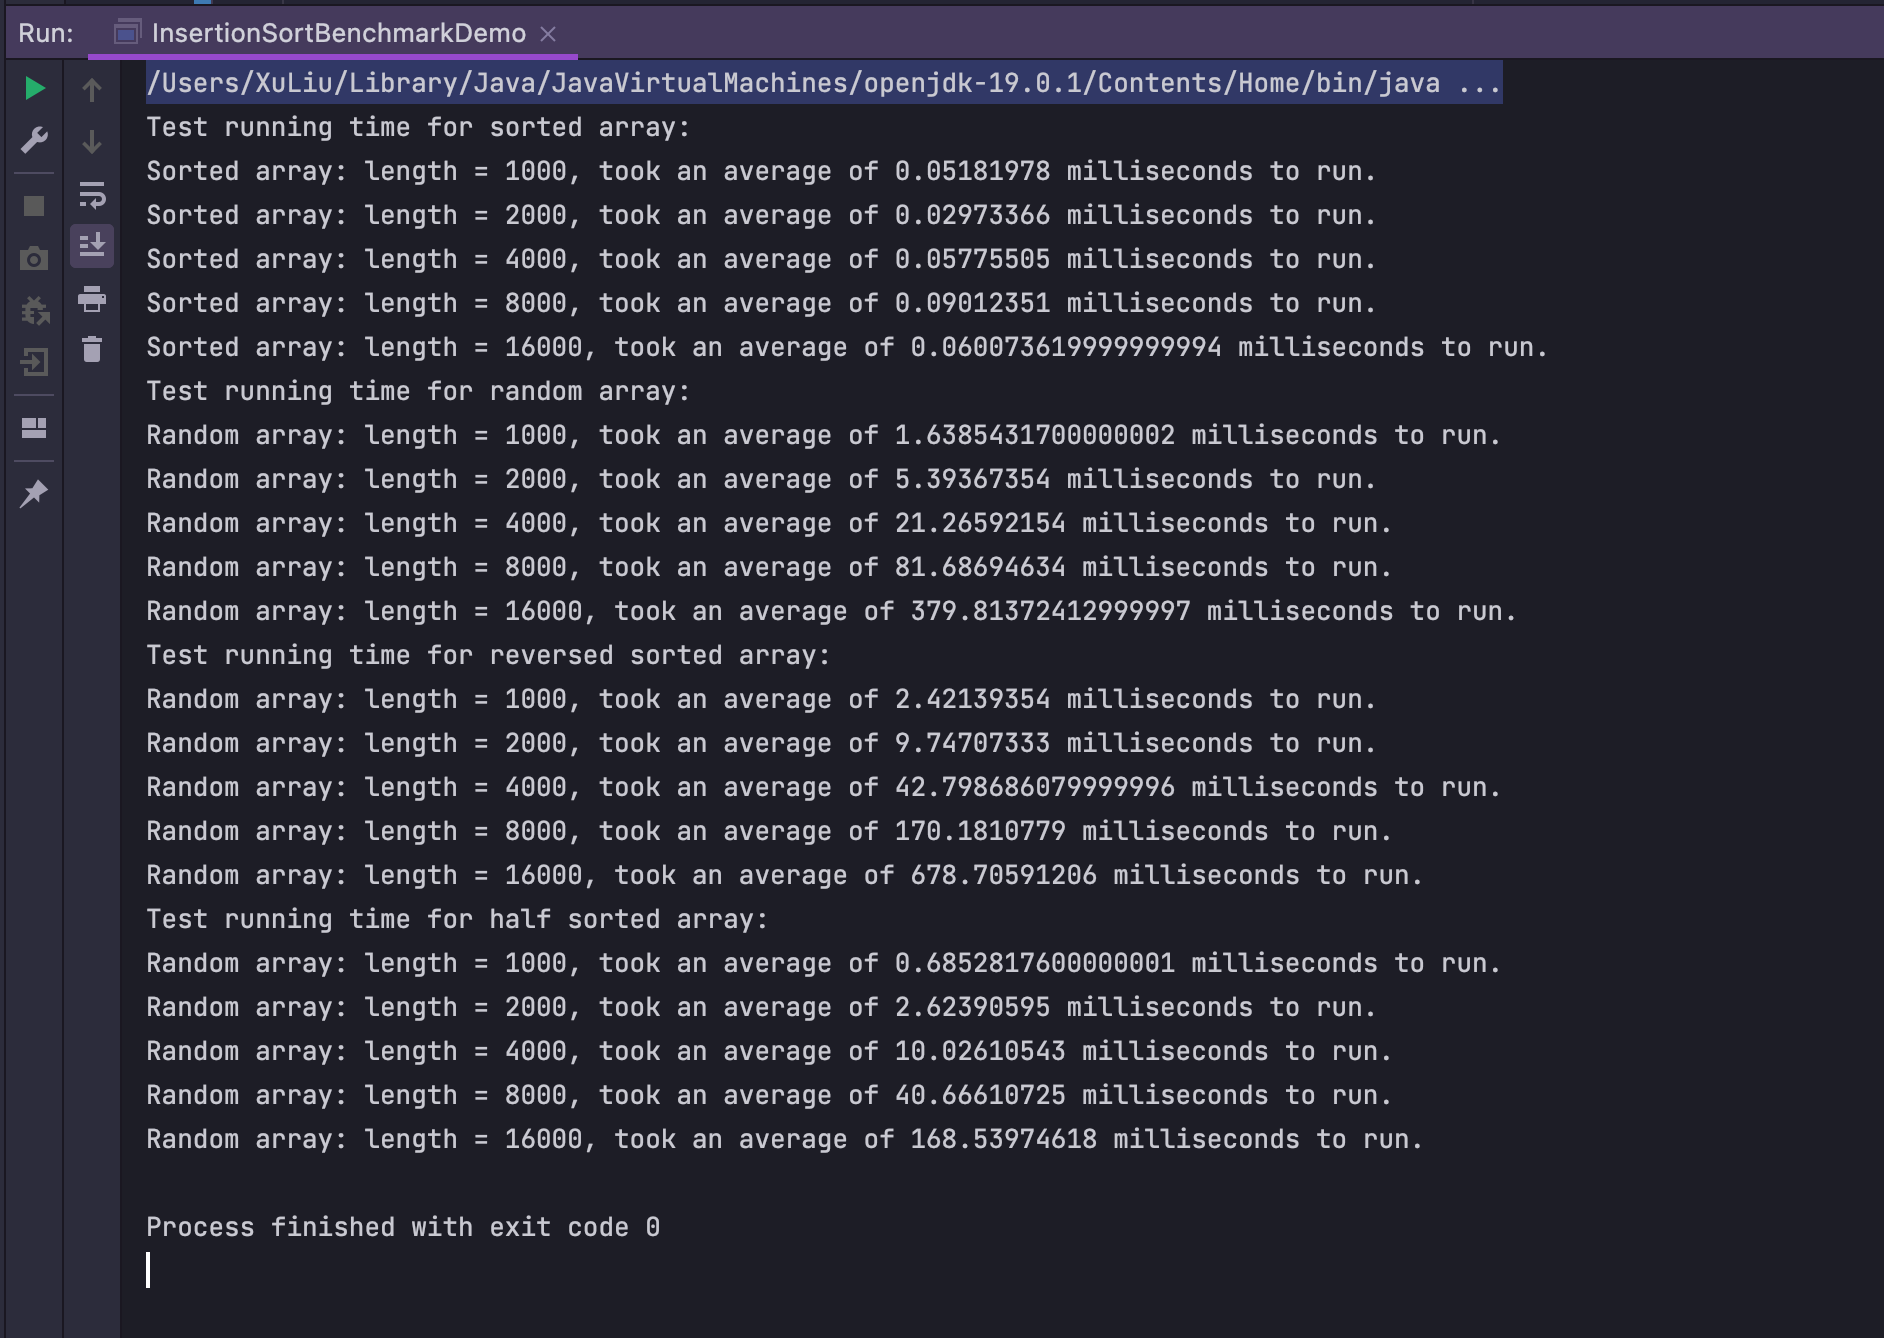
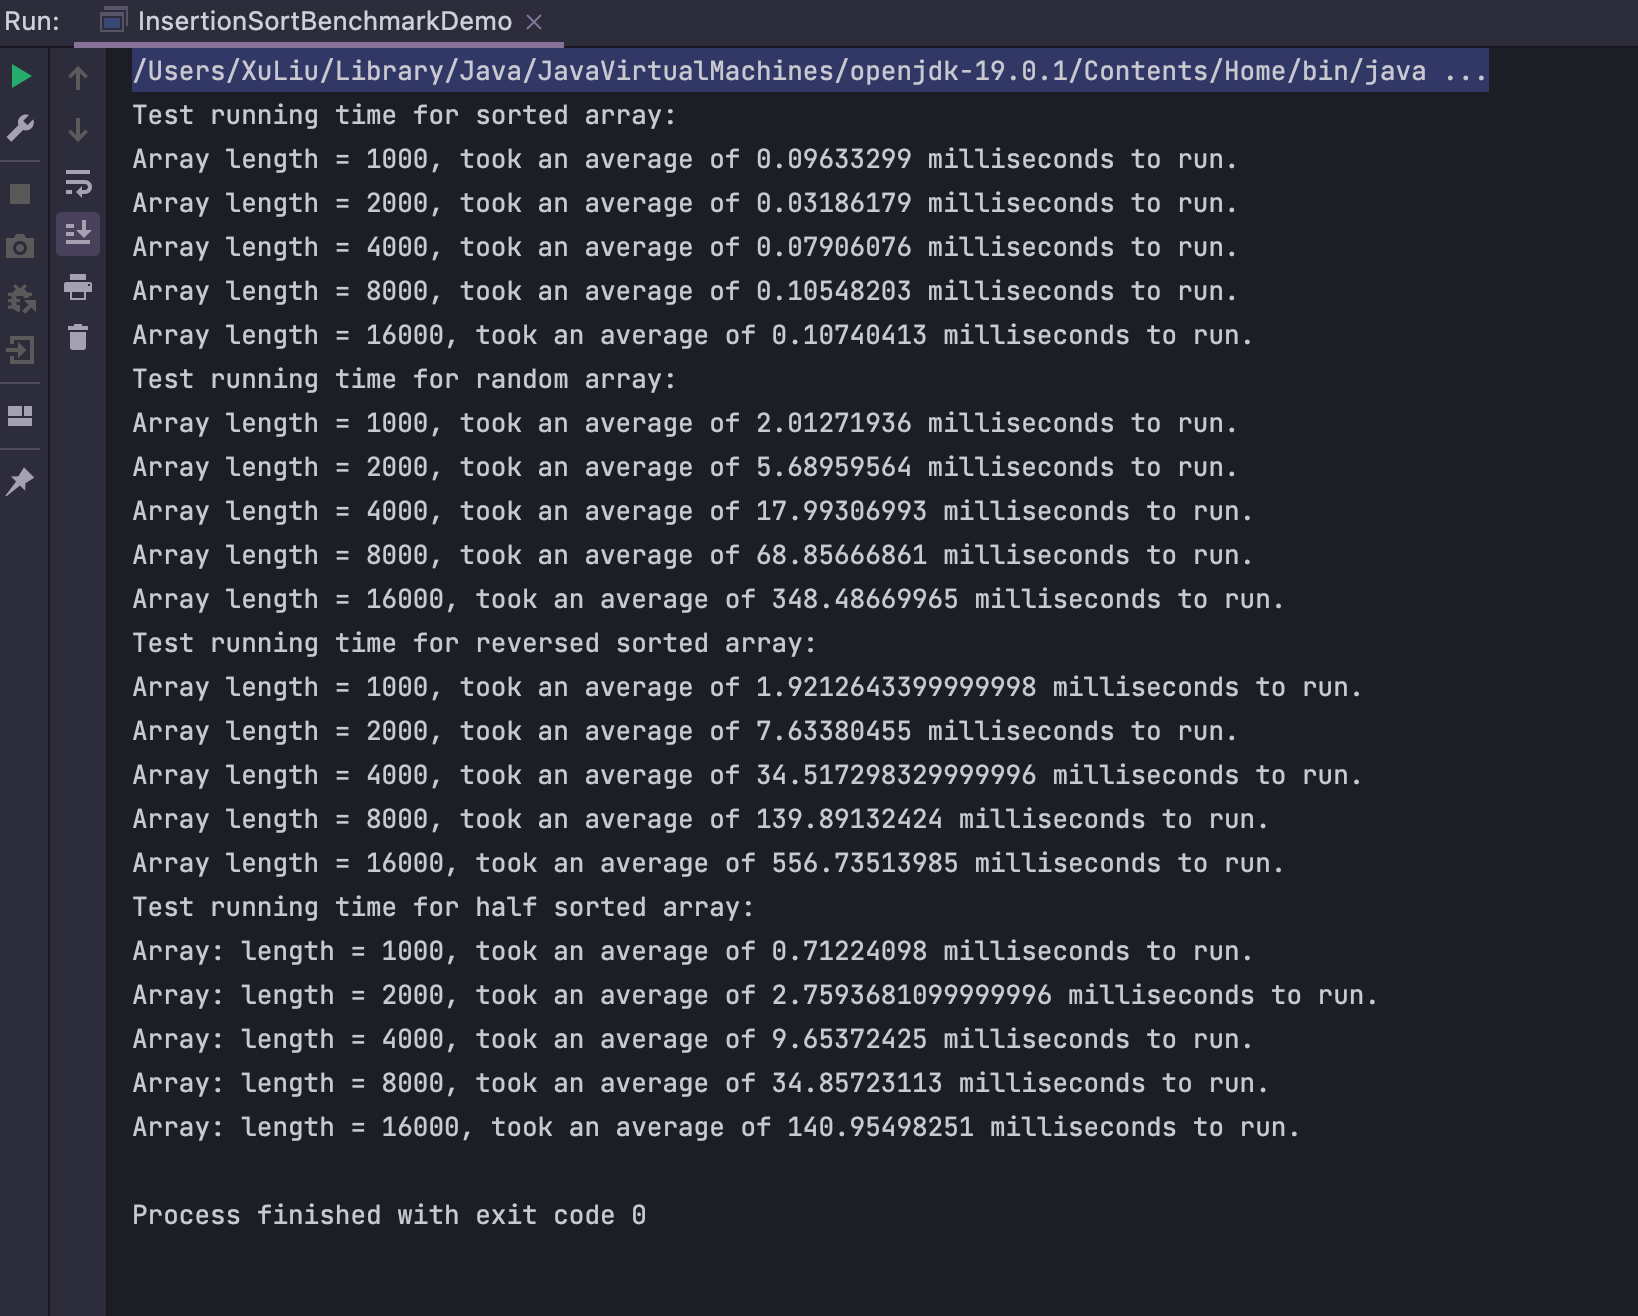
updated report

Changed region(s): [[0.0, 0.0, 1.0, 0.8723], [0.0623, 0.9035, 0.3736, 0.9347]]

diff --git a/src/main/java/edu/neu/coe/info6205/sort/elementary/InsertionSortBenchmarkDemo.java b/src/main/java/edu/neu/coe/info6205/sort/elementary/InsertionSortBenchmarkDemo.java
@@ -14,7 +14,7 @@ public class InsertionSortBenchmarkDemo {
             Integer[] arr = generateSortedArray(i);
             Timer timer = new Timer();
             double result = timer.repeat(100, () -> insertionSort.sort(arr));
-            System.out.println("Sorted array: length = " + i + ", took an average of " + result + " milliseconds to run.");
+            System.out.println("Array length = " + i + ", took an average of " + result + " milliseconds to run.");
 
         }
 
@@ -25,7 +25,7 @@ public class InsertionSortBenchmarkDemo {
             shuffleArray(arr);
             Timer timer = new Timer();
             double result = timer.repeat(100, () -> insertionSort.sort(arr));
-            System.out.println("Random array: length = " + i + ", took an average of " + result + " milliseconds to run.");
+            System.out.println("Array length = " + i + ", took an average of " + result + " milliseconds to run.");
 
         }
         System.out.println("Test running time for reversed sorted array: ");
@@ -35,7 +35,7 @@ public class InsertionSortBenchmarkDemo {
             reverseArray(arr);
             Timer timer = new Timer();
             double result = timer.repeat(100, () -> insertionSort.sort(arr));
-            System.out.println("Random array: length = " + i + ", took an average of " + result + " milliseconds to run.");
+            System.out.println("Array length = " + i + ", took an average of " + result + " milliseconds to run.");
 
         }
         System.out.println("Test running time for half sorted array: ");
@@ -45,7 +45,7 @@ public class InsertionSortBenchmarkDemo {
             halfSortedArray(arr);
             Timer timer = new Timer();
             double result = timer.repeat(100, () -> insertionSort.sort(arr));
-            System.out.println("Random array: length = " + i + ", took an average of " + result + " milliseconds to run.");
+            System.out.println("Array: length = " + i + ", took an average of " + result + " milliseconds to run.");
 
         }
 
